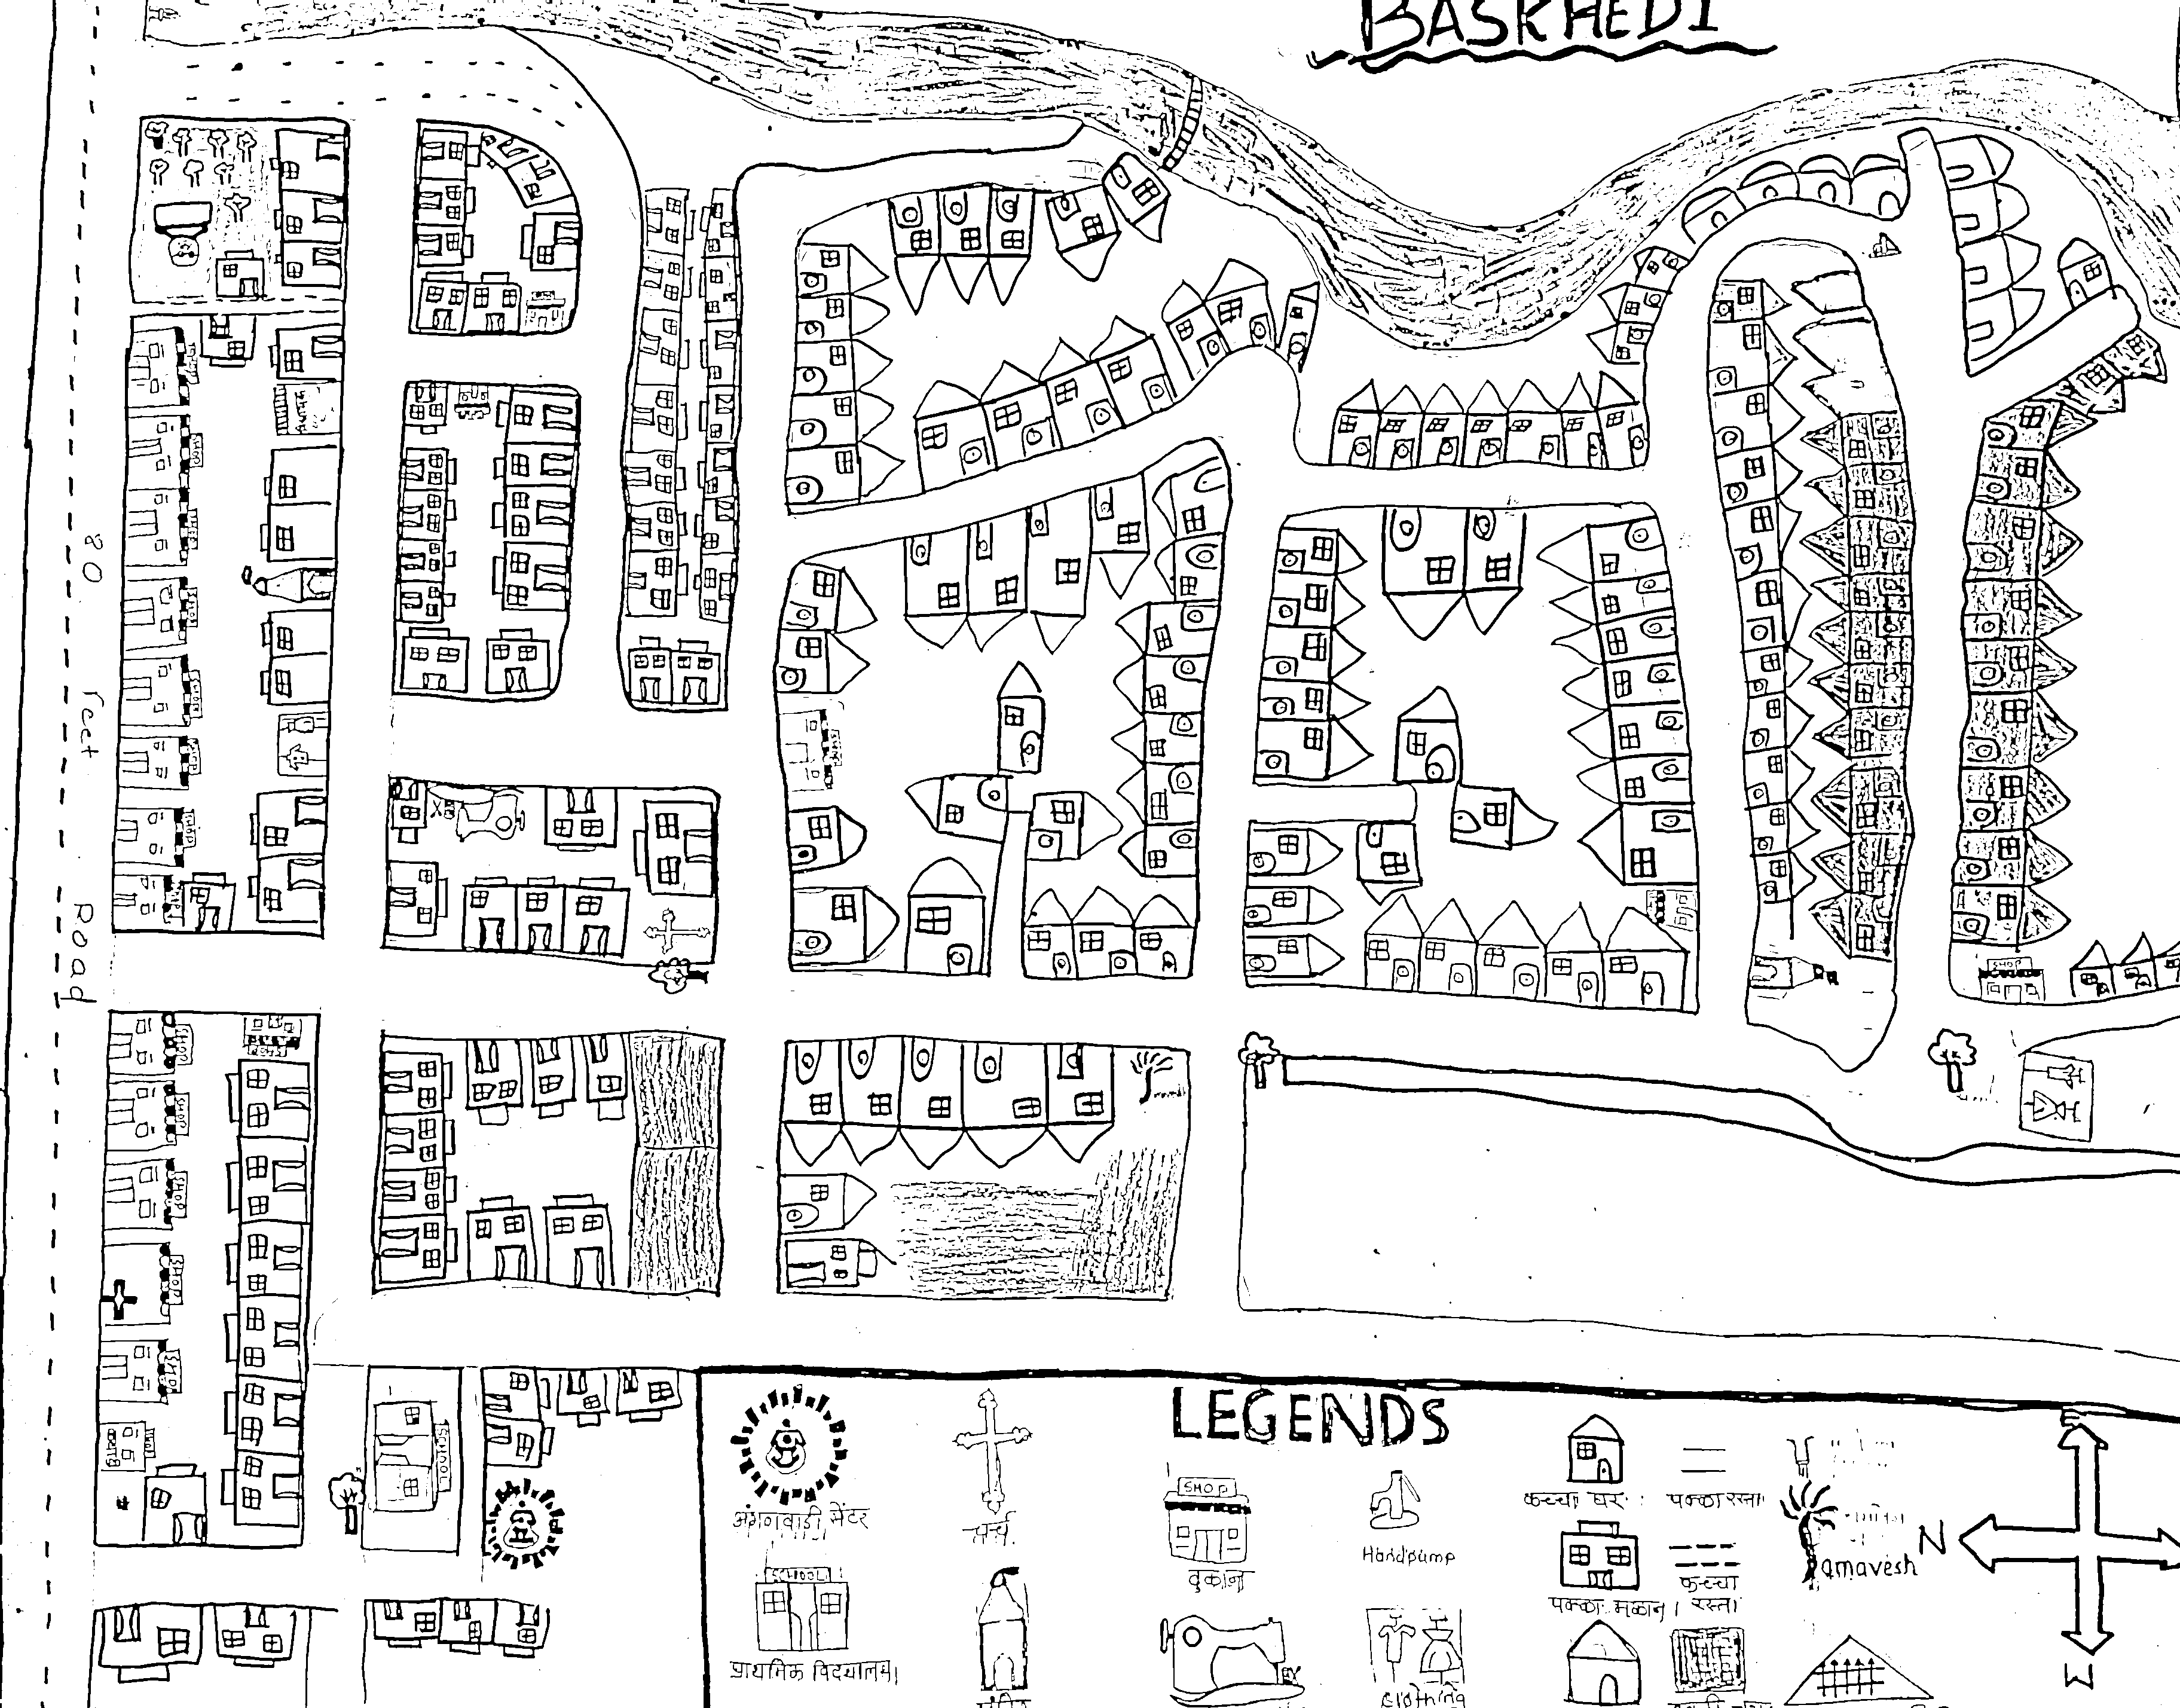
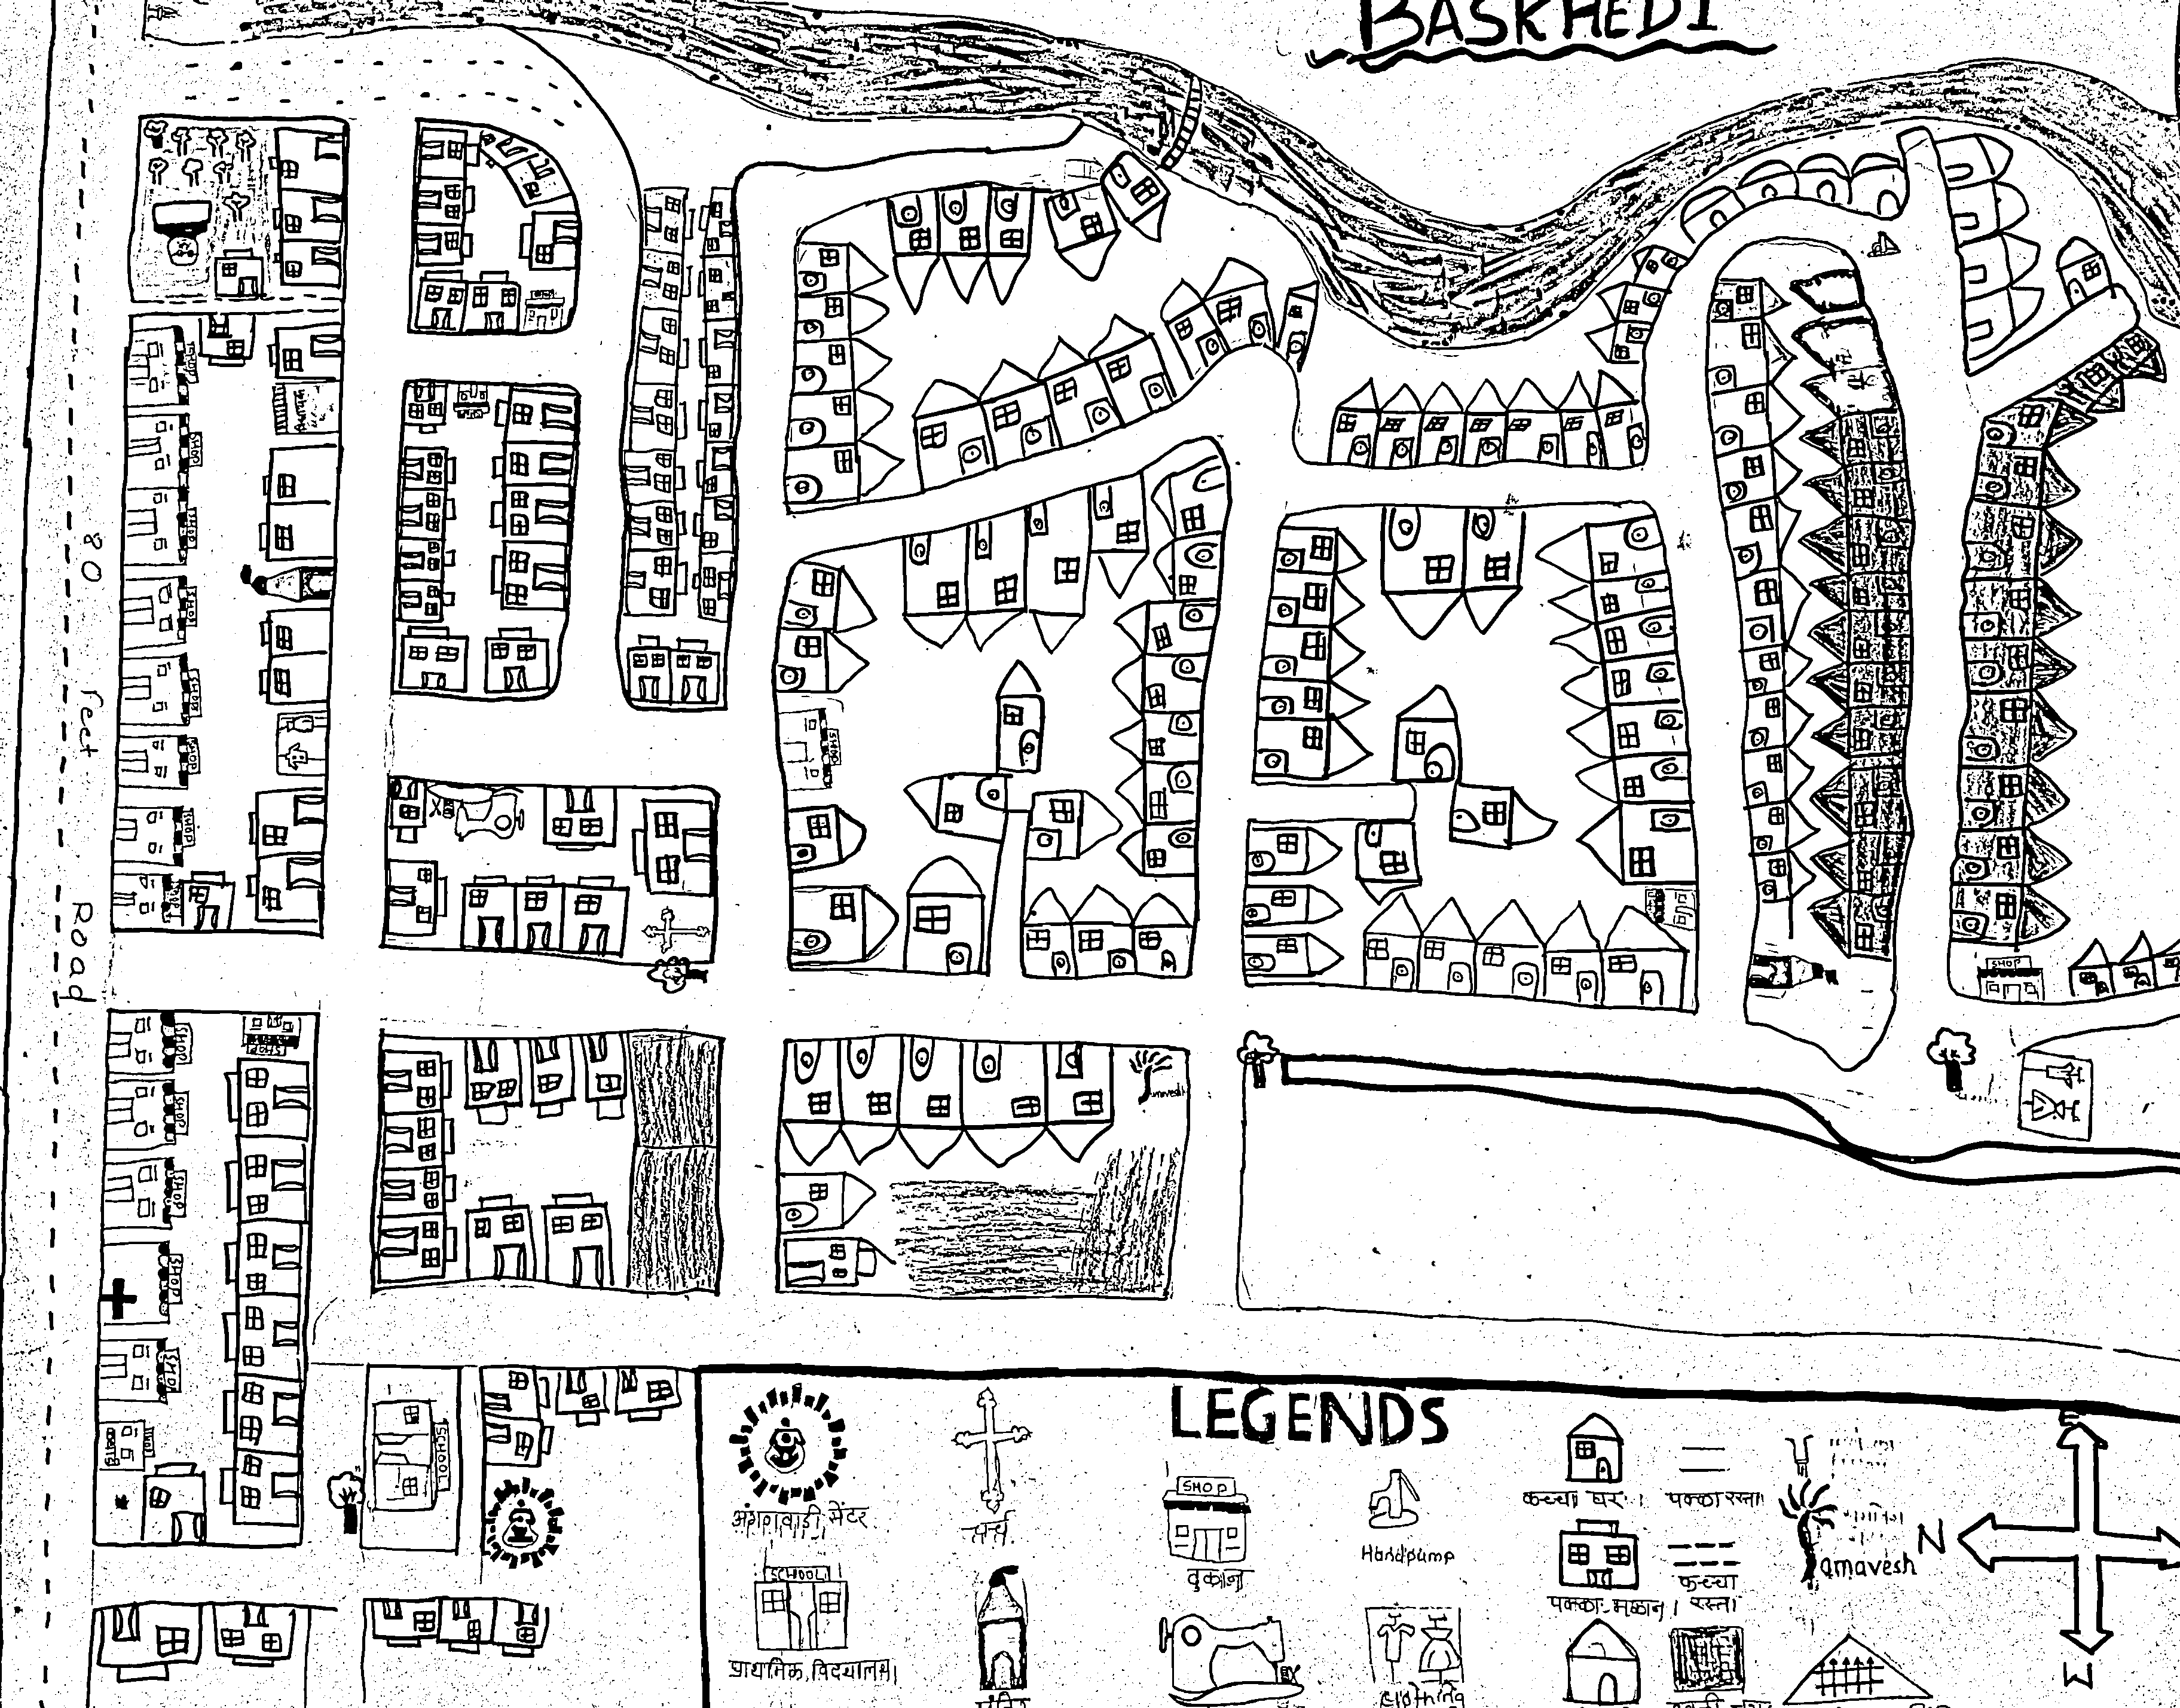
Regenerate stylized maps with gentle thresholding to preserve text while keeping digital look and correct cropping

diff --git a/app.js b/app.js
@@ -30,7 +30,7 @@ const villageConfig = {
   baskhedi: {
     name: "Baskhedi",
     center: [75.2644, 24.2589],
-    imageOverlayUrl: "/baskhedi_clean.png?v=1",
+    imageOverlayUrl: "/baskhedi_stylized_map.png?v=4",
     imageCoordinates: [
       [75.2595, 24.2634], // top-left
       [75.2693, 24.2634], // top-right
@@ -42,7 +42,7 @@ const villageConfig = {
   village2: {
     name: "Junapani (Map 2)",
     center: [74.6942, 21.6899],
-    imageOverlayUrl: "/map2_clean.png?v=1", 
+    imageOverlayUrl: "/map2_stylized.jpeg?v=4", 
     imageCoordinates: [
       [74.6842, 21.7049], // top-left
       [74.7042, 21.7049], // top-right

diff --git a/clean_map.py b/clean_map.py
@@ -1,0 +1,44 @@
+import cv2
+import numpy as np
+import sys
+
+def clean_map(input_path, output_path, crop=False):
+    print(f"Processing {input_path}...")
+    img = cv2.imread(input_path)
+    if img is None:
+        print(f"Failed to read {input_path}")
+        return
+
+    # Convert to grayscale
+    gray = cv2.cvtColor(img, cv2.COLOR_BGR2GRAY)
+    
+    # Optional cropping to remove edges
+    if crop:
+        h, w = gray.shape
+        gray = gray[int(h*0.02):int(h*0.98), int(w*0.02):int(w*0.98)]
+        
+    # Apply Gaussian Blur to smooth out noise
+    blurred = cv2.GaussianBlur(gray, (3, 3), 0)
+    
+    # Apply adaptive thresholding with gentler parameters to preserve text
+    thresh = cv2.adaptiveThreshold(blurred, 255, cv2.ADAPTIVE_THRESH_GAUSSIAN_C, 
+                                   cv2.THRESH_BINARY, 41, 10)
+                                   
+    # Minimal morphological operations to avoid eating the text
+    kernel = np.ones((2,2), np.uint8)
+    
+    # Morphological open to remove tiny noise
+    cleaned = cv2.morphologyEx(thresh, cv2.MORPH_OPEN, kernel, iterations=1)
+    
+    # Skip heavy dilation to preserve text legibility
+    # cleaned = cv2.dilate(cleaned, kernel, iterations=1)
+
+    # Save
+    cv2.imwrite(output_path, cleaned)
+    print(f"Saved {output_path}")
+
+# Process Baskhedi Map
+clean_map('public/social map of Baskhedi (1)_2.jpg', 'public/baskhedi_stylized_map.png', crop=True)
+
+# Process Map 2
+clean_map('public/map2.jpeg', 'public/map2_stylized.jpeg', crop=False)